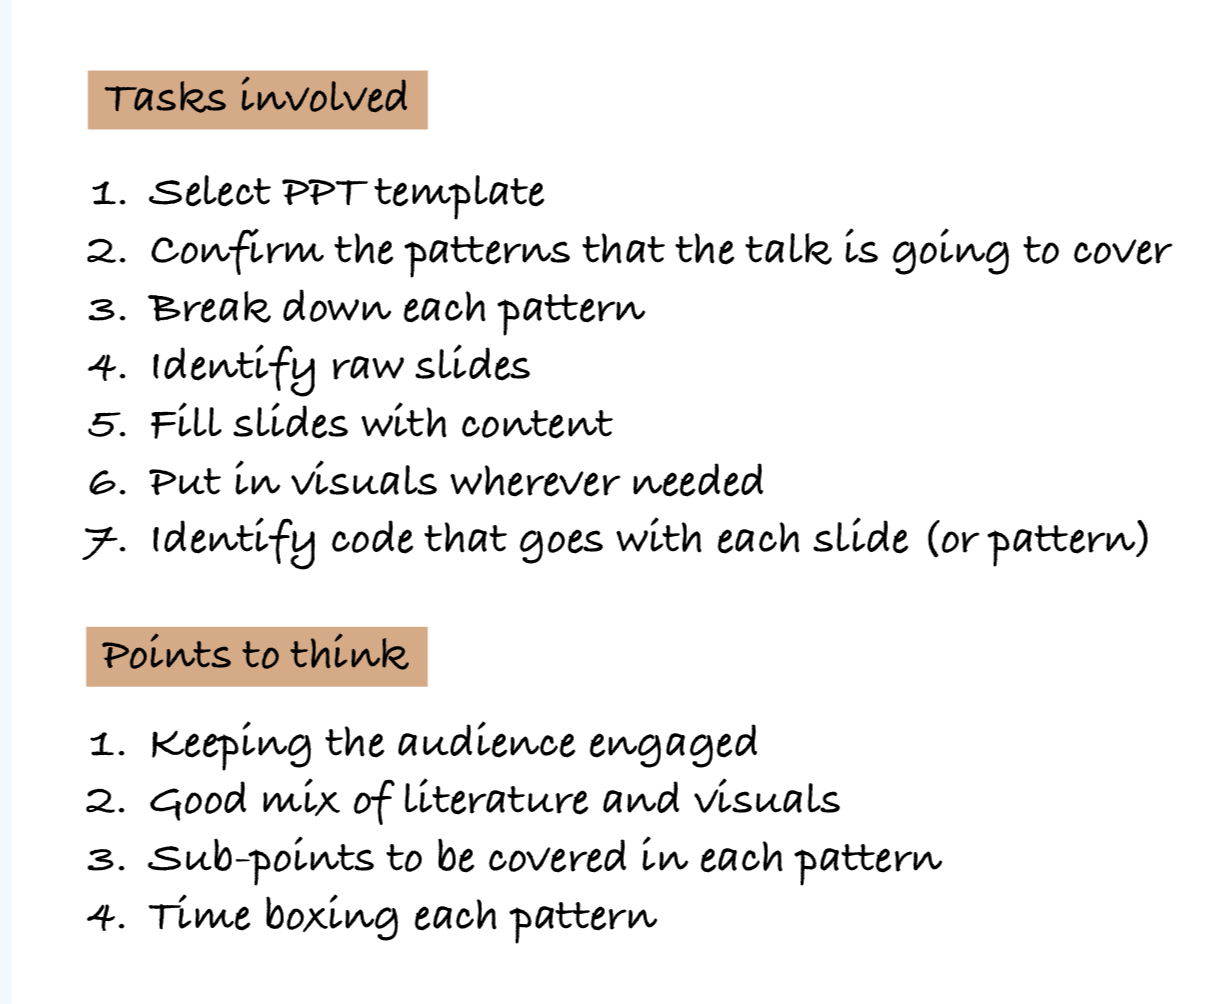
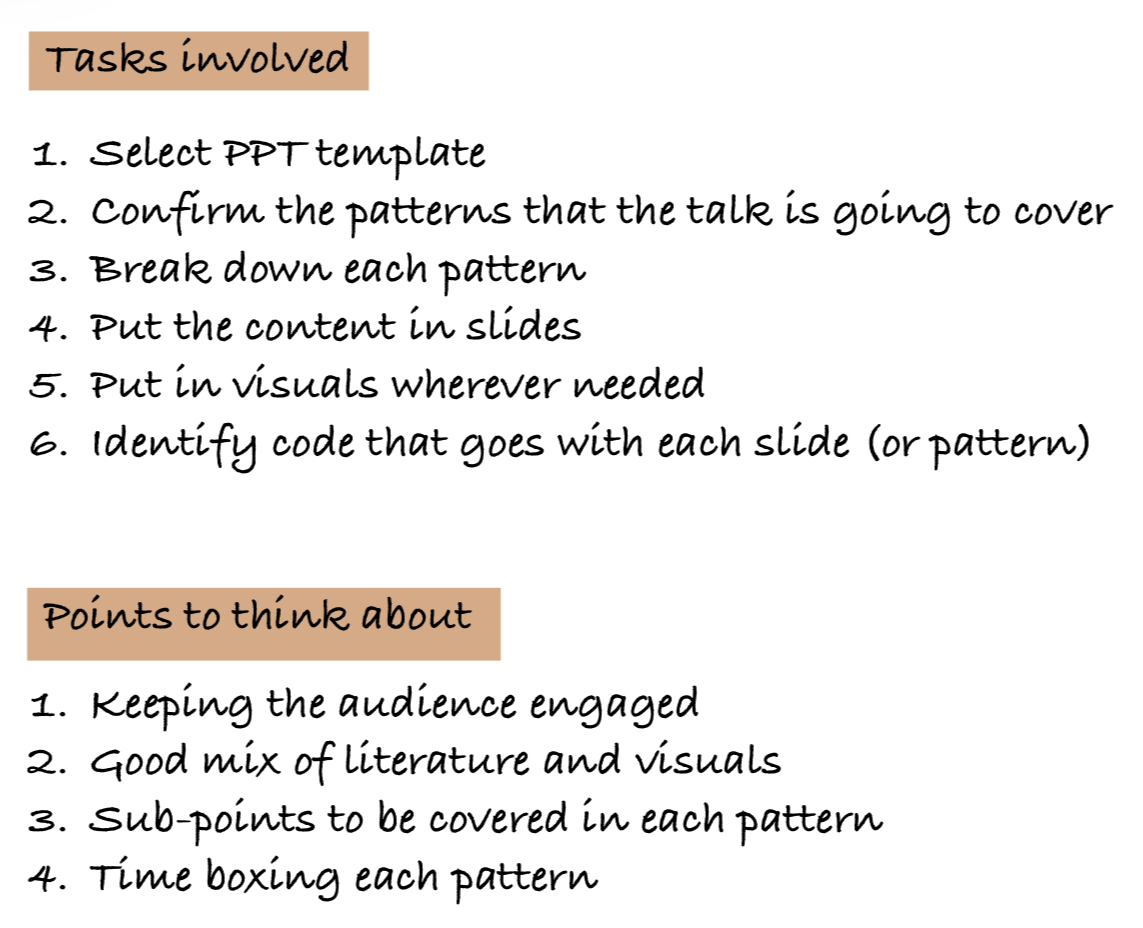
Sarthak | Makes changes in the article on talk journey

diff --git a/content/en/blog/behind_the_mic_my_journey_to_delivering_a_conference_talk/index.md b/content/en/blog/behind_the_mic_my_journey_to_delivering_a_conference_talk/index.md
@@ -30,7 +30,7 @@ Let's start.
 
 Having spent decent time exploring key/value storage engines, I was eager to present my learnings on recurring patterns within this space. 
 I define a <span style="color: #F78C6C"> pattern </span> <span style="color: #28a745"> as a repeating or a recurring solution to a problem </span>. For instance, 
-achieving <span style="color: #F78C6C">  durability </span> – <span style="color: #28a745"> ensuring data is never lost after being acknowledged as written </span> – 
+the pattern <span style="color: #F78C6C"> Persistence </span> – <span style="color: #28a745"> refers to ensuring that data is never lost after being acknowledged as stored </span> – 
 requires the implementation of a <span style="color: #28a745"> Write-Ahead Log (WAL) </span> along with <span style="color: #28a745">  fsync system call.</span>
 
 My initial concept for the talk centered around "Patterns of Key/Value Storage Engines". I was going to present the talk with [Tittu Varghese](https://www.linkedin.com/in/tittuvarghese/),
@@ -38,7 +38,7 @@ who is an architect at NPCI. Both of us recognized the need to refine the topic 
 patterns, we sought to ensure the talk offered a more focused and impactful message.
 
 To do this, we discussed it with [Gautam Rege](https://www.linkedin.com/in/gautamrege/) during a call. This conversation proved invaluable.
-We discussed the key takeaways for the audience and all of us agreed that the audience should not only grasp key-value storage engine 
+We discussed the key takeaways for the audience and all of us agreed that the audience should not only grasp key/value storage engine 
 patterns but also develop a critical lens to evaluate database claims. By understanding these patterns, they would be better equipped to 
 question the promises made by various database solutions. 
 
@@ -60,9 +60,11 @@ The refined task list is shown below.
     <img class="align-center" src="/talk-task-list.jpeg" />
 </figure>
 
+I then moved on to the presentation preparation.
+
 ### Preparing the presentation
 
-After the topic was finalized, I identified four key patterns of key-value storage engines to cover in the talk:
+After the topic was finalized and task list prepared, I identified four key patterns of key-value storage engines to cover in the talk:
 - Durability
 - Read optimization
 - Write optimization
@@ -73,8 +75,8 @@ I created a <span style="color: #28a745"> simple template to structure the prese
 
 **Pattern name** → **Definition** → **Sub-concepts** → **Questions to evaluate database claims**
 
-I had a great brainstorming session with [Unmesh Joshi](https://www.linkedin.com/in/unmesh-joshi-9487635/) around patterns and questions to 
-evaluate database claims. I received valuable feedback on the pattern names, suggesting that they should be nouns. 
+I had a great brainstorming session with [Unmesh Joshi](https://www.linkedin.com/in/unmesh-joshi-9487635/) around patterns and questions that one should ask 
+to evaluate database claims. I received valuable feedback on the pattern names, suggesting that they should be nouns. 
 Based on this input, I refined the names of the patterns as follows:
 
 - Durability → **Persistence**
@@ -83,14 +85,14 @@ Based on this input, I refined the names of the patterns as follows:
 - Transactions → **Coordination**
 
 The template provided a clear framework to organize my ideas and the discussion with Unmesh helped in refining it. To give an example, the 
-draft structure for the "Persistence" pattern took shape as follows:
+draft structure for the "Persistence" pattern took the following shape:
 
 <figure>
     <img class="align-center" src="/talk-preparation.png" />
 </figure>
 
 I applied the same approach to all the patterns, and soon enough, my presentation was ready. Initially, I drafted a list of 
-"side points to cover" as seen in the image above. However, I refined this list by conducting timed practice sessions. This iterative 
+"side points to cover" in each pattern, as seen in the image above. However, I refined this list by conducting timed practice sessions. This iterative 
 process helped me determine which points were essential to include within the allotted timeframe.
 
 I moved on to the next stage, which was getting feedback on the presentation.
@@ -145,11 +147,11 @@ whether it was to wake them up, ask questions, or perhaps even incorporate some 
 
 ### Travelling to Jaipur
 
-GopherCon India 2024 was held in Jaipur, and my talk was scheduled for December 2nd. I traveled to Jaipur on November 30th, 
+GopherCon India 2024 was held in Jaipur, and my talk was scheduled for December 2nd. I traveled to Jaipur on the evening of November 30th, 
 giving me one day to focus on improving the two key areas of my talk. On December 1st, I attended a few sessions and took notes on the following:
 
 - Talk time of various speakers
-- Attention space of the audience
+- Attention span of the audience
 - Any issues the speakers encountered with the microphone or presentation screen
 
 I did not see any issues with the microphone or the presentation screen. However, I realized that it was crucial to finish my talk under 
@@ -172,7 +174,8 @@ Now was the time to do a few more mock runs.
 I decided to remove the "Coordination" pattern from the talk. At first, it felt like I was doing the talk an injustice, but the most
 important thing was to help the audience grasp patterns like Persistence, Efficient Retrieval and Efficient ingestion along with the
 underlying concepts like WAL (write-ahead log), fsync, B+Tree, Bloom filter etc. I wanted them to realize the value of understanding 
-these patterns to effectively question database claims and choose the right database(s).
+these patterns to effectively question database claims and choose the right database(s). I was able to convince myself with the idea of dropping
+the "Coordination" pattern.
 
 After practicing again, my talk time dropped to 21 minutes.
 
@@ -210,7 +213,7 @@ Practice is very different from the actual talk. I knew I had practiced enough, 
 the stage. My anxiety wasn't about the audience or the stage, but about the pressure to perform well, deliver my message accurately, 
 and truly capture the essence of my talk. So, I wanted to feel a little of that pressure beforehand.
 
-This is where [Tittu Varghese](https://www.linkedin.com/in/tittuvarghese/), comes in. I shared the stage with Tittu. He skillfully provided the necessary context for my talk, creating a smooth transition for my 
+This is where [Tittu Varghese](https://www.linkedin.com/in/tittuvarghese/) helped. I shared the stage with Tittu. He skillfully provided the necessary context for my talk, creating a smooth transition for my 
 presentation. Tittu spoke for a few minutes, which proved invaluable. This period allowed me to get comfortable with the stage, observe 
 the audience, and build my confidence for the rest of the presentation.
 
